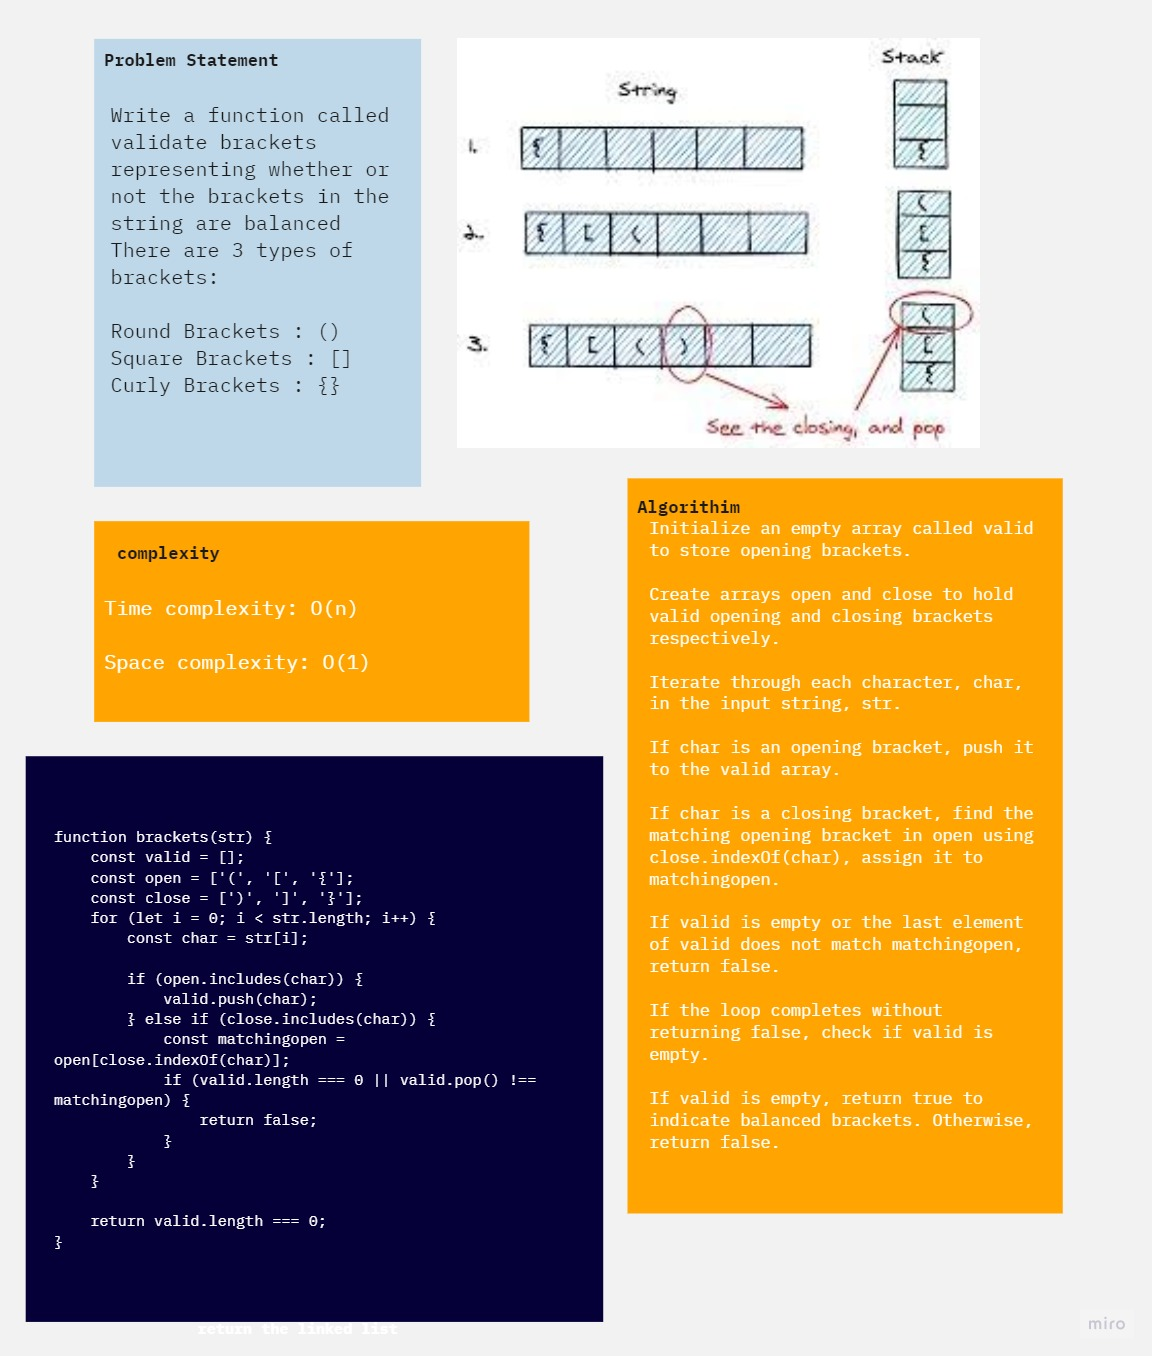
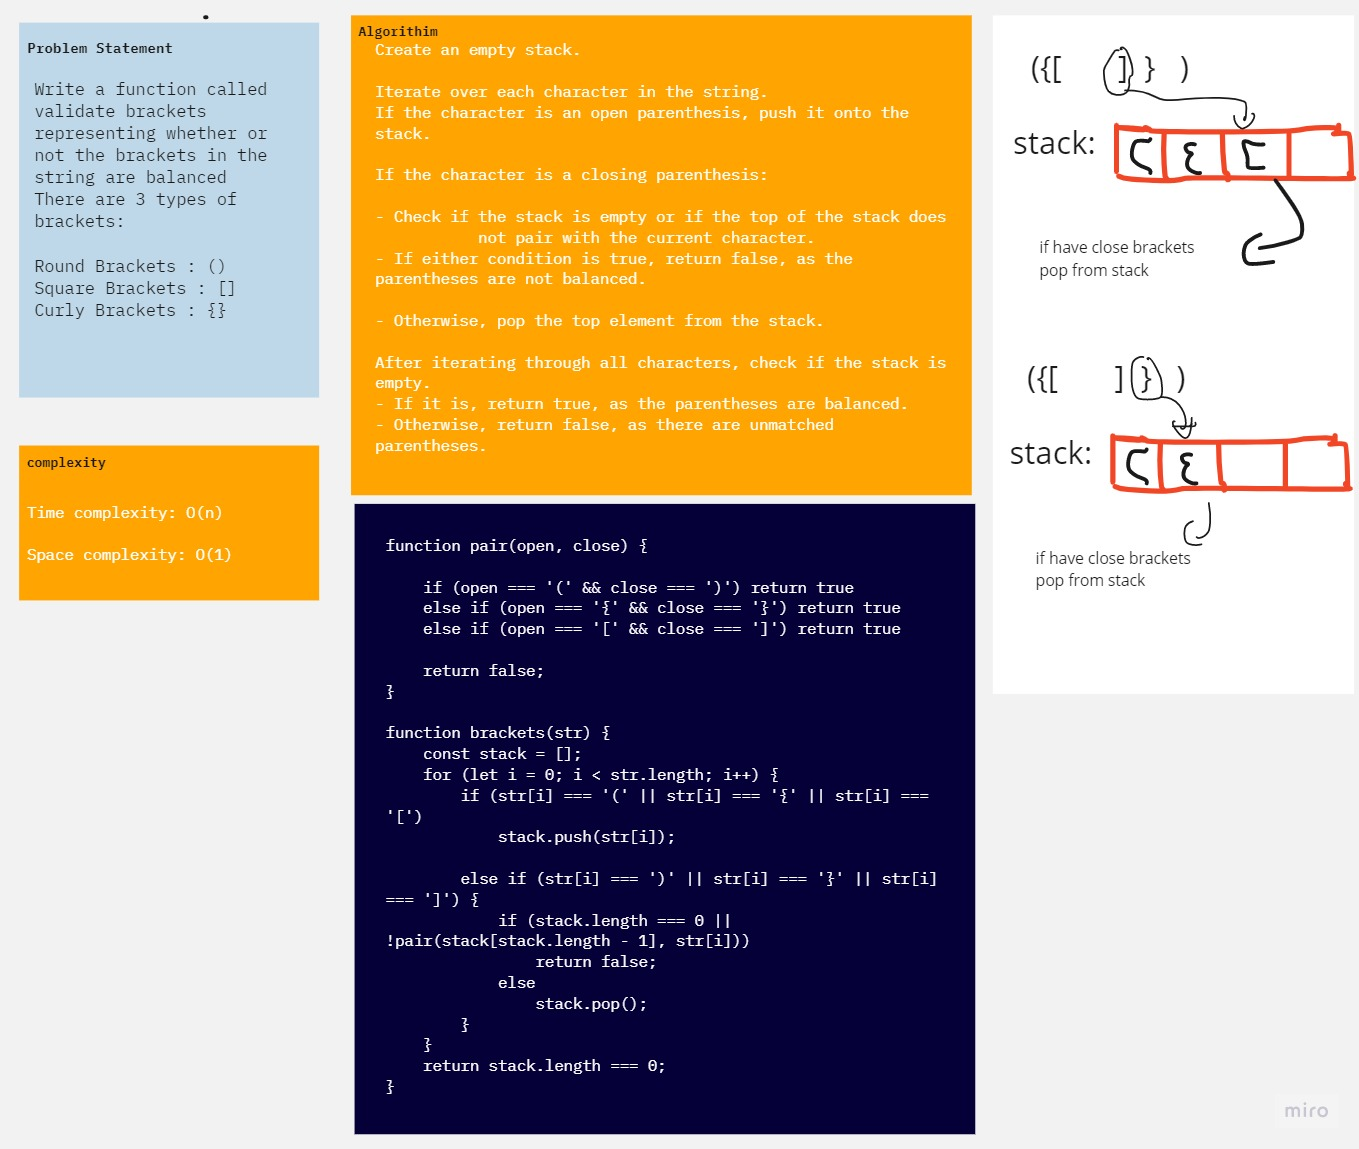
done

diff --git a/javascript/code-challenges/brackets13/index.js b/javascript/code-challenges/brackets13/index.js
@@ -1,22 +1,29 @@
+
+function pair(open, close) {
+
+    if (open === '(' && close === ')') return true
+    else if (open === '{' && close === '}') return true
+    else if (open === '[' && close === ']') return true
+
+    return false;
+}
+
 function brackets(str) {
-    const valid = [];
-    const open = ['(', '[', '{'];
-    const close = [')', ']', '}'];
-
+    const stack = [];
     for (let i = 0; i < str.length; i++) {
-        const char = str[i];
-
-        if (open.includes(char)) {
-            valid.push(char);
-        } else if (close.includes(char)) {
-            const matchingopen = open[close.indexOf(char)];
-            if (valid.length === 0 || valid.pop() !== matchingopen) {
+        if (str[i] === '(' || str[i] === '{' || str[i] === '[')
+            stack.push(str[i]);
+            
+        else if (str[i] === ')' || str[i] === '}' || str[i] === ']') {
+            if (stack.length === 0 || !pair(stack[stack.length - 1], str[i]))
                 return false;
-            }
+            else
+                stack.pop();
         }
     }
-
-    return valid.length === 0;
+    return stack.length === 0;
 }
+
+console.log(('{}(){}'))
 
 module.exports = brackets;

diff --git a/javascript/code-challenges/brackets13/_test_/brackets.test.js b/javascript/code-challenges/brackets13/_test_/brackets.test.js
@@ -30,6 +30,4 @@ describe('brackets  test ', () => {
         expect(brackets('{(})')).toBe(false);
     });
 
-    
-
 });

diff --git a/javascript/code-challenges/brackets13/readme.md b/javascript/code-challenges/brackets13/readme.md
@@ -17,5 +17,5 @@ Curly Brackets : {}
 
 ## Solution
 <!-- Show how to run your code, and examples of it in action -->
-[Linkedlist file](index.js)
+[code](index.js)
 [test]('./_test_/brackets.test.js')
